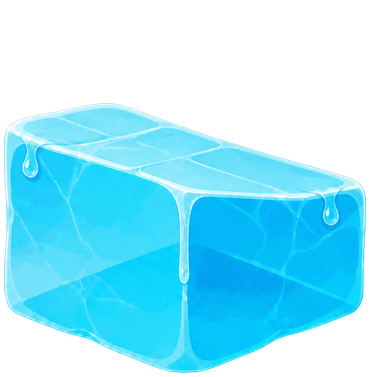
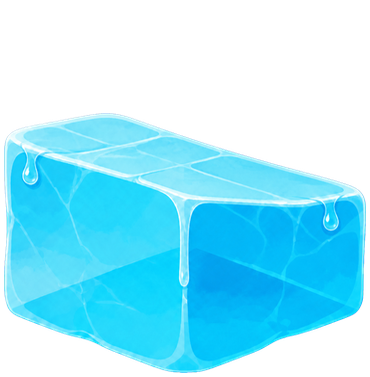
마지막 얼음 단계 상단 10px 하향

diff --git a/game.js b/game.js
@@ -63,7 +63,7 @@
   const meltingIceStage2Image = new Image();
   let meltingIceStage2ImageReady = false;
   meltingIceStage2Image.decoding = "async";
-  meltingIceStage2Image.src = "./assets/ice-block-melting-stage-2.png?v=20260819-normalized-370x377";
+  meltingIceStage2Image.src = "./assets/ice-block-melting-stage-2.png?v=20260819-stage3-top-down-10px";
   meltingIceStage2Image.addEventListener("load", () => { meltingIceStage2ImageReady = true; });
 
   const iceBlockShadowImage = new Image();

diff --git a/index.html b/index.html
@@ -73,6 +73,6 @@
         </div>
       </section>
     </main>
-    <script src="./game.js?v=20260819-normalized-ice-frames"></script>
+    <script src="./game.js?v=20260819-stage3-top-down-10px"></script>
   </body>
 </html>
